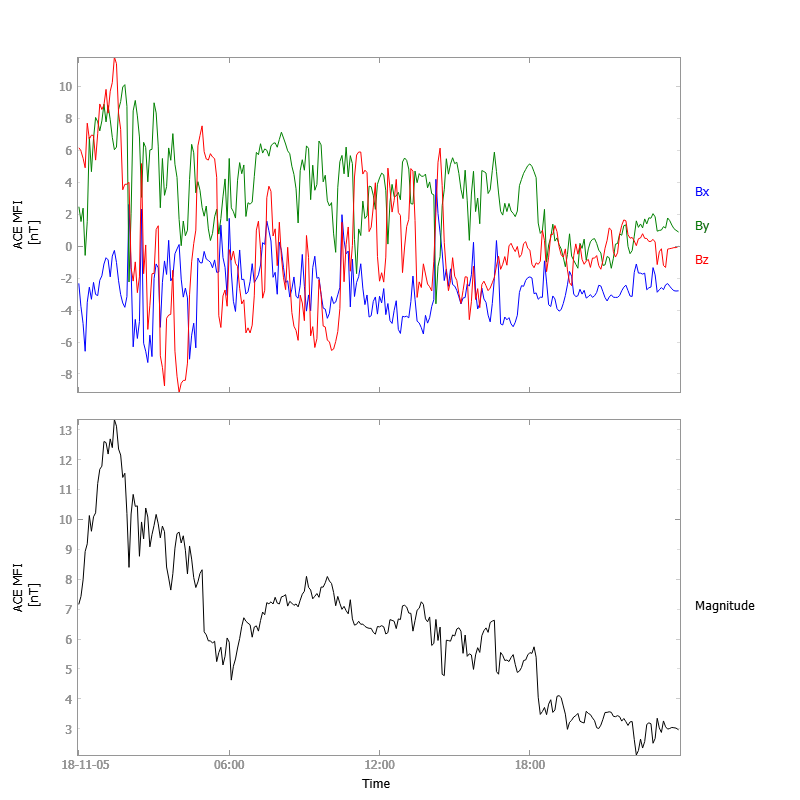
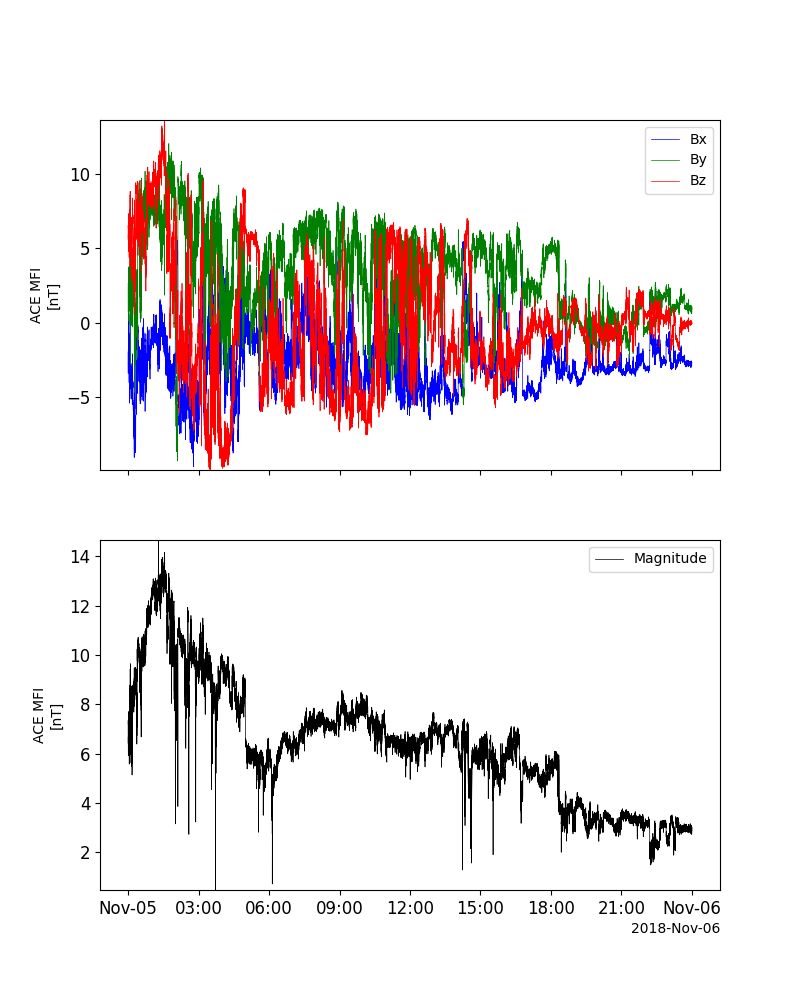
updating ACE docs

diff --git a/docs/source/ace.rst b/docs/source/ace.rst
@@ -1,9 +1,10 @@
 Advanced Composition Explorer (ACE)
-====================================
+========================================================================
 The routines in this module can be used to load data from the Advanced Composition Explorer (ACE) mission.
 
+
 Magnetometer (MFI)
----------------------------
+----------------------------------------------------------
 .. autofunction:: pyspedas.ace.mfi
 
 Example
@@ -13,17 +14,17 @@ Example
    
    import pyspedas
    from pytplot import tplot
-   pyspedas.ace.mfi(trange=['2018-11-5', '2018-11-6'])
+   mfi_vars = pyspedas.ace.mfi(trange=['2018-11-5', '2018-11-6'])
    tplot(['BGSEc', 'Magnitude'])
 
 .. image:: _static/ace_mfi.png
-   :scale: 75 %
    :align: center
    :class: imgborder
 
 
+
 Solar Wind Electron, Proton and Alpha Monitor (SWEPAM)
---------------------------------------------------------
+----------------------------------------------------------
 .. autofunction:: pyspedas.ace.swe
 
 Example
@@ -33,35 +34,131 @@ Example
    
    import pyspedas
    from pytplot import tplot
-   pyspedas.ace.swe(trange=['2018-11-5', '2018-11-5/12:00'], time_clip=True)
+   swe_vars = pyspedas.ace.swe(trange=['2018-11-5', '2018-11-6'])
    tplot(['Np', 'Vp', 'He_ratio', 'Tpr'])
 
-.. image:: _static/ace_swepam.png
-   :scale: 75 %
+.. image:: _static/ace_swe.png
    :align: center
    :class: imgborder
 
 
+
 Electron, Proton, and Alpha-particle Monitor (EPAM)
-----------------------------------------------------
+----------------------------------------------------------
 .. autofunction:: pyspedas.ace.epam
 
+Example
+^^^^^^^^^
+
+.. code-block:: python
+   
+   import pyspedas
+   from pytplot import tplot
+   epam_vars = pyspedas.ace.epam(trange=['2018-11-5', '2018-11-6'])
+   tplot(['H_lo', 'Ion_very_lo', 'Ion_lo', 'Ion_mid', 'Ion_hi', 'Electron_lo', 'Electron_hi'])
+
+.. image:: _static/ace_epam.png
+   :align: center
+   :class: imgborder
+
+
+
 Cosmic Ray Isotope Spectrometer (CRIS)
-----------------------------------------
+----------------------------------------------------------
 .. autofunction:: pyspedas.ace.cris
 
+Example
+^^^^^^^^^
+
+.. code-block:: python
+   
+   import pyspedas
+   from pytplot import tplot
+   cris_vars = pyspedas.ace.cris(trange=['2018-11-5', '2018-11-6'])
+   tplot(['flux_B', 'flux_C', 'flux_N', 'flux_O', 'flux_F', 'flux_Ne'])
+
+.. image:: _static/ace_cris.png
+   :align: center
+   :class: imgborder
+
+
+
 Solar Isotope Spectrometer (SIS)
----------------------------------------
+----------------------------------------------------------
 .. autofunction:: pyspedas.ace.sis
 
+Example
+^^^^^^^^^
+
+.. code-block:: python
+   
+   import pyspedas
+   from pytplot import tplot
+   sis_vars = pyspedas.ace.sis(trange=['2018-11-5', '2018-11-6'])
+   tplot(['H_lo', 'H_hi', 'CNO_lo', 'CNO_hi', 'Z_ge_10'])
+
+.. image:: _static/ace_sis.png
+   :align: center
+   :class: imgborder
+
+
+
 Ultra Low Energy Isotope Spectrometer (ULEIS)
------------------------------------------------
+----------------------------------------------------------
 .. autofunction:: pyspedas.ace.uleis
 
+Example
+^^^^^^^^^
+
+.. code-block:: python
+   
+   import pyspedas
+   from pytplot import tplot
+   uleis_vars = pyspedas.ace.uleis(trange=['2018-11-5', '2018-11-6'])
+   tplot(['H_S1', 'H_S2', 'H_S3', 'H_S4', 'H_S5'])
+
+.. image:: _static/ace_uleis.png
+   :align: center
+   :class: imgborder
+
+
+
 Solar Energetic Particle Ionic Charge Analyzer (SEPICA)
----------------------------------------------------------
+----------------------------------------------------------
 .. autofunction:: pyspedas.ace.sepica
 
+Example
+^^^^^^^^^
+
+.. code-block:: python
+   
+   import pyspedas
+   from pytplot import tplot
+   sepica_vars = pyspedas.ace.sepica(trange=['2004-11-5', '2004-11-6'])
+   tplot(['H1', 'H2', 'H3'])
+
+.. image:: _static/ace_sepica.png
+   :align: center
+   :class: imgborder
+
+
+
 Solar Wind Ion Composition Spectrometer (SWICS)
-------------------------------------------------
+----------------------------------------------------------
 .. autofunction:: pyspedas.ace.swics
+
+Example
+^^^^^^^^^
+
+.. code-block:: python
+   
+   import pyspedas
+   from pytplot import tplot
+   swi_vars = pyspedas.ace.swics(trange=['2018-11-5', '2018-11-6'])
+   tplot(['vHe2', 'vthHe2'])
+
+.. image:: _static/ace_swics.png
+   :align: center
+   :class: imgborder
+
+
